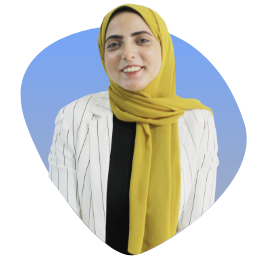
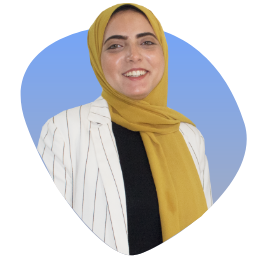
readjusted team images

Changed region(s): [[0.1199, 0.0, 0.839, 1.0]]

diff --git a/src/app/modules/about-us/about-team/about-team.component.ts b/src/app/modules/about-us/about-team/about-team.component.ts
@@ -24,6 +24,9 @@ export class AboutTeamComponent implements OnInit {
     var technicalTeam = document.getElementById('technicalTeam').querySelector('.row');
     var marketingTeam = document.getElementById('marketingTeam').querySelector('.row');
     var businessTeam = document.getElementById('businessTeam').querySelector('.row');
+    //var qaTeam = document.getElementById('qaTeam').querySelector('.row');
+    //var uiTeam = document.getElementById('uiTeam').querySelector('.row');
+    //var pmTeam = document.getElementById('pmTeam').querySelector('.row');
 
     //Toggle Show animation and enable document
     if (selectedTeam == "technicalTeam" && !technicalTeam.classList.contains('displayTeam')) {

diff --git a/src/app/modules/about-us/about-team/about-team.component.html b/src/app/modules/about-us/about-team/about-team.component.html
@@ -139,7 +139,7 @@
           </div>
           <div class="col-6 col-lg text-center ">
             <div class="mb-2 img-container">
-              <img src="./assets/img/team/Group 9.png" />
+              <img src="./assets/img/teams/medhat.png" />
             </div>
             <h2>
               Amr Moushtaha
